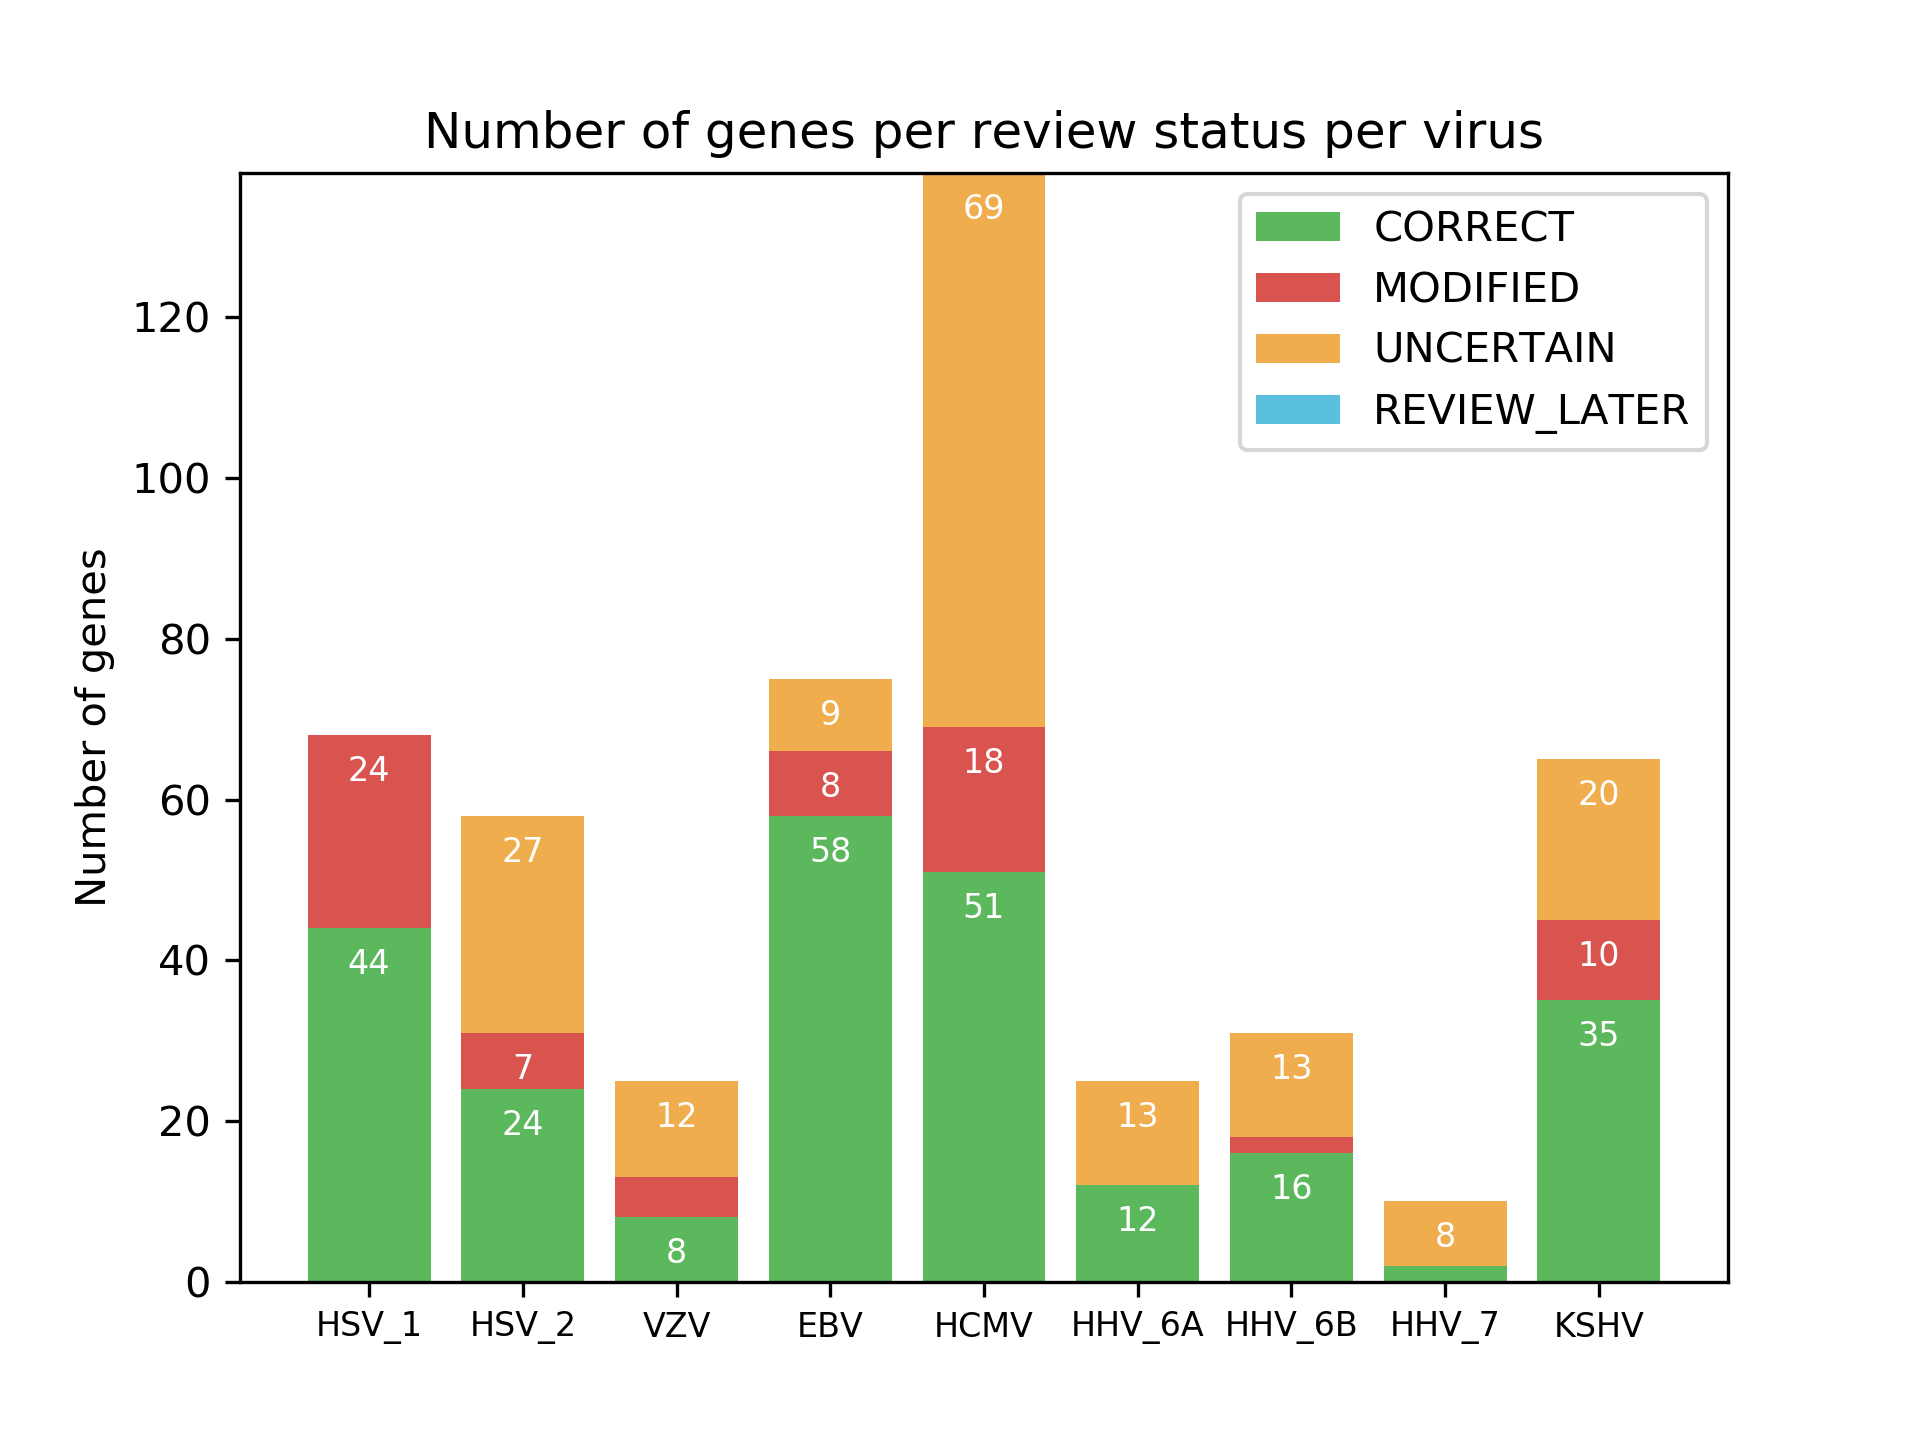
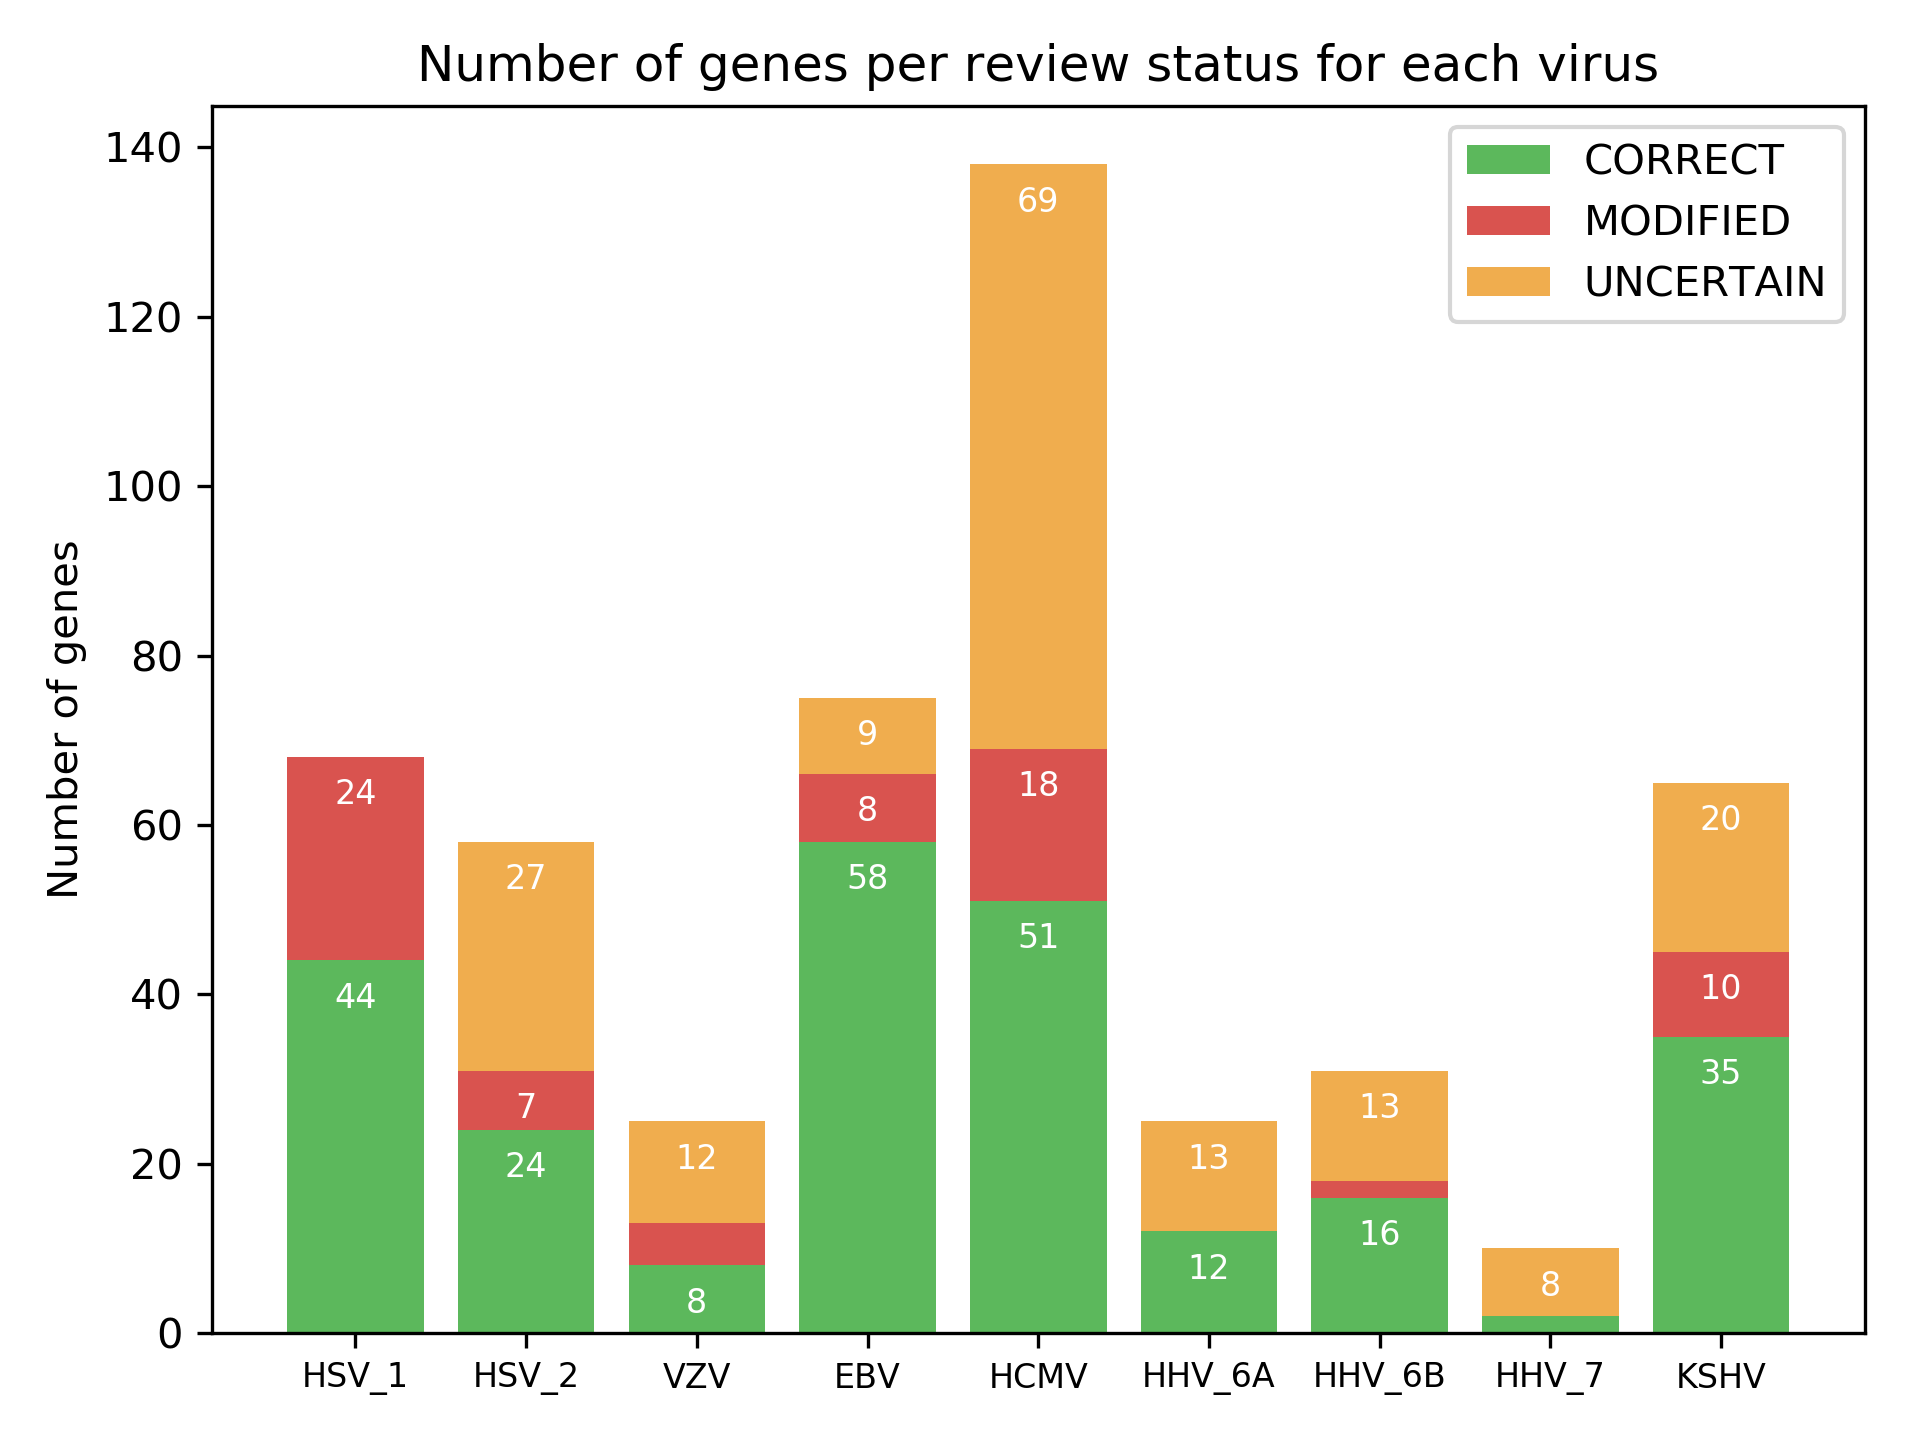
started on report

Changed region(s): [[0.0312, 0.0312, 0.9688, 0.9688]]

diff --git a/Classification/pca_plotter.py b/Classification/pca_plotter.py
@@ -1,10 +1,32 @@
 import json
 import pickle
+from operator import add
 
 from Util import compose_filename, compose_configuration
 from sklearn.decomposition import PCA
 import pandas as pd
 import matplotlib.pyplot as plt
+
+
+def _plot_pca_fi_barchart(relative, original_features, pca):
+    plt.figure(figsize=(12, 8))
+    bottom = [0 for _ in original_features]
+    for comp in range(5):
+        y = abs(pca.components_[comp])
+        if relative:
+            y = [el * pca.explained_variance_ratio_[comp] for el in y]
+        plt.bar(original_features, y, bottom=bottom, label=f"Component {comp}")
+        bottom = list(map(add, bottom, y))
+
+    plt.xticks(rotation=45, rotation_mode='anchor', ha='right')
+    plt.ylabel('Feature Importance')
+    plt.xlabel('Feature')
+    if relative:
+        plt.title("PCA feature importance, relative to Explained Variance Ratio of the components", wrap=True)
+    else:
+        plt.title("PCA feature importance", wrap=True)
+    plt.legend()
+    plt.tight_layout()
 
 
 class PCAPlotter:
@@ -26,13 +48,31 @@ class PCAPlotter:
         plt.bar([f"comp {i}" for i, _ in enumerate(y)], y)
 
         for i, v in enumerate(y):
-            plt.text(i, v, str(round(v*100, 2)) + '%', ha='center', va='bottom')
+            plt.text(i, v, str(round(v * 100, 2)) + '%', ha='center', va='bottom')
 
         plt.xticks(rotation=45, rotation_mode='anchor', ha='right')
         plt.xlabel('PCA Component')
         plt.ylabel('Explained Variance Ratio')
         plt.tight_layout()
         plt.savefig(f"{self.config['output_pca_variance_plot_directory']}None-pca_{name}")
+        plt.close()
+
+    def plot_feature_importance(self, name):
+        pca_file = f"{self.config['input_pca_folder']}None-pca.p"
+        pca = pickle.load(open(pca_file, 'rb'))  # type: PCA
+
+        features_file = compose_filename(self.config["input_data_folder"], self.config['filter_latent'],
+                                         self.config['standardization'], 'no-pca', 'features', name, 'csv')
+
+        original_features = pd.read_csv(features_file, index_col=0).columns
+        original_features = [col for col in original_features if col not in self.config['skip-features']]
+
+        _plot_pca_fi_barchart(False, original_features, pca)
+        plt.savefig(f"{self.config['output_pca_variance_plot_directory']}PCA_Features_Importance_{name}")
+        plt.close()
+
+        _plot_pca_fi_barchart(True, original_features, pca)
+        plt.savefig(f"{self.config['output_pca_variance_plot_directory']}PCA_Features_Importance_Relative_to_variance{name}")
         plt.close()
 
     def plot(self, name):

diff --git a/DataPlotter/data_plotter.py b/DataPlotter/data_plotter.py
@@ -3,7 +3,7 @@ from Util import ReviewDBReader
 import matplotlib.pyplot as plt
 from operator import add
 
-REVIEW_STATUSES = ["CORRECT", "MODIFIED", "UNCERTAIN", "REVIEW_LATER"]
+REVIEW_STATUSES = ["CORRECT", "MODIFIED", "UNCERTAIN"]
 color_dict = {'green': '#5cb85c', 'blue': '#5bc0de', 'orange': '#f0ad4e', 'red': '#d9534f'}
 color_status_dict = {'CORRECT': color_dict['green'], 'UNCERTAIN': color_dict['orange'], 'MODIFIED': color_dict['red'],
                      'REVIEW_LATER': color_dict['blue']}
@@ -50,7 +50,7 @@ class DataPlotter:
             plt.text(i, v - 4, str(v), color='white', ha='center', va='top')
 
         plt.savefig(f'{self.output_directory_totals}phase.png', dpi=300)
-        plt.clf()
+        plt.close()
 
     def plot_total_status(self):
         result_dict = {}
@@ -61,14 +61,14 @@ class DataPlotter:
 
         plt.bar(range(len(result_dict)), bars, tick_label=[s for s in REVIEW_STATUSES],
                 color=[color_status_dict[s] for s in REVIEW_STATUSES])
-        plt.title('Number of genes per review status (total over all viruses)')
+        plt.title('Total number of genes per review status')
         plt.ylabel('Number of genes')
 
         for i, v in enumerate(bars):
             plt.text(i, v - 4, str(v), color='white', ha='center', va='top')
-
+        plt.tight_layout()
         plt.savefig(f'{self.output_directory_totals}review_status.png', dpi=300)
-        plt.clf()
+        plt.close()
 
     def plot_per_virus_phase(self):
 
@@ -106,7 +106,7 @@ class DataPlotter:
         plt.title('Number of genes per phase per virus')
         plt.ylabel('Number of genes')
         plt.savefig(f'{self.output_directory_per_virus}phase.png', dpi=300)
-        plt.clf()
+        plt.close()
 
     def plot_per_virus_status(self):
 
@@ -140,10 +140,11 @@ class DataPlotter:
 
         plt.xticks(range(len(self.viruses)), [v for v in self.viruses], fontsize=8)
         plt.legend()
-        plt.title('Number of genes per review status per virus')
+        plt.title('Number of genes per review status for each virus')
         plt.ylabel('Number of genes')
+        plt.tight_layout()
         plt.savefig(f'{self.output_directory_per_virus}review_status.png', dpi=300)
-        plt.clf()
+        plt.close()
 
     def plot(self):
         self.plot_total_phase()

diff --git a/Report Writing Tools/tools.py b/Report Writing Tools/tools.py
@@ -1,0 +1,50 @@
+import json
+
+
+def virus_alternate_names_overview():
+    configfile = open('../config/selection_config.json')
+    config = json.load(configfile)
+
+
+    an = config['alternate_names']
+    viruses = list(an.keys())
+    viruses1 = viruses[:4]
+    viruses2 = viruses[4:]
+
+    remaining = True
+    i = 0
+    while remaining:
+        remaining = False
+        to_print = ""
+        for virus in viruses1:
+            if i < len(an[virus]):
+                to_print += f"{an[virus][i]} & "
+                remaining = True
+            else:
+                to_print += " & "
+        to_print = to_print[:-2]
+        to_print += '\\\\\n'
+        print(to_print, end='')
+        i += 1
+
+    print()
+    print()
+    remaining = True
+    i = 0
+    while remaining:
+        remaining = False
+        to_print = ""
+        for virus in viruses2:
+            if i < len(an[virus]):
+                to_print += f"{an[virus][i]} & "
+                remaining = True
+            else:
+                to_print += " & "
+        to_print = to_print[:-2]
+        to_print += '\\\\\n'
+        print(to_print, end='')
+        i += 1
+
+
+if __name__ == "__main__":
+    virus_alternate_names_overview()

diff --git a/main.py b/main.py
@@ -135,16 +135,17 @@ def main():
                 classification.fit_all()
 
             if args.plot:
-                cp = ClassificationPlotter('config/classification_config.json', args.features)
-                cp.plot_all()
+                # cp = ClassificationPlotter('config/classification_config.json', args.features)
+                # cp.plot_all()
 
                 pcap = PCAPlotter('config/classification_config.json')
-                pcap.plot(args.features)
-                pcap.plot_explained_variance(args.features)
+                # pcap.plot(args.features)
+                # pcap.plot_explained_variance(args.features)
+                pcap.plot_feature_importance(args.features)
 
-                spmp = ScatterPlotMatrixPlotter('config/classification_config.json')
-                spmp.plot_scatter_matrix()
-                spmp.plot_correlation_matrix()
+                # spmp = ScatterPlotMatrixPlotter('config/classification_config.json')
+                # # spmp.plot_scatter_matrix()
+                # spmp.plot_correlation_matrix()
 
 
 if __name__ == "__main__":
